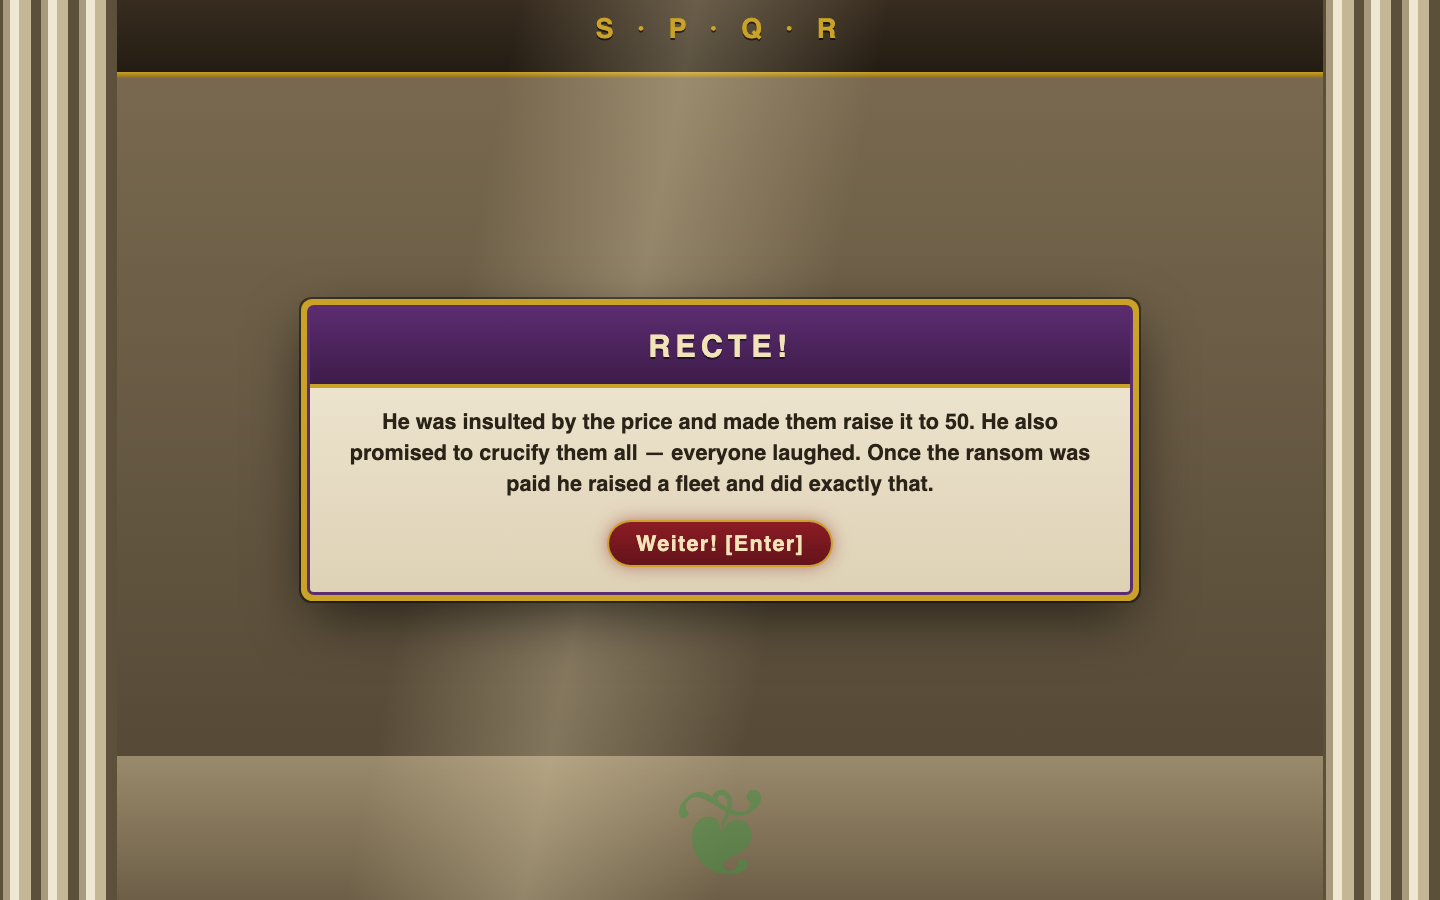
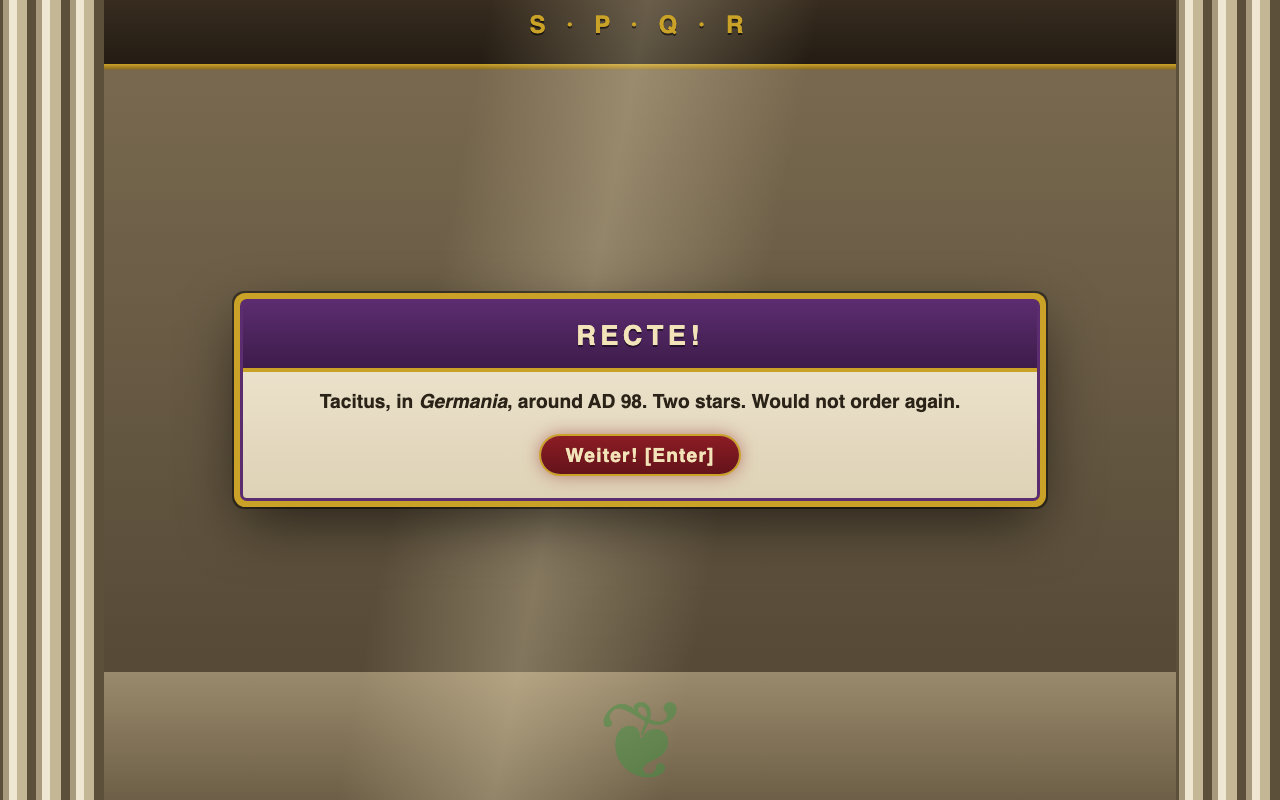
Rebuild the Romerriget quiz: five Rome-vs-Wiesn questions, four choices each.
The old three (pirates, urine, vomitorium) were good Rome trivia but had
nothing to do with beer. The new five all put Rome up against the Wiesn:
cerevisia, Tacitus' beer review, Maß vs. sextarius, Teutoburg, Castra Regina.

Four choices per question, so quizChoiceFromKey grows a fourth key (4 / D —
same dual-role pattern as A). runQuiz was already generic over question
count; only the comments that said "3-question" are updated. PR screenshots
in assets/ refreshed to show the new set.

Changed region(s): [[0.1562, 0.3125, 0.8438, 0.7188], [0.9375, 0.0, 0.9688, 1.0]]

diff --git a/js/tents/kaefer/kaefer.js b/js/tents/kaefer/kaefer.js
@@ -6,9 +6,11 @@
 //   kaefer.js    this — the host, his move, the questions
 //   kaefer.css   the Senate set (show: 'senate')
 //
-// The questions are deliberately NOT the pub-quiz three (Rubicon, veni vidi
-// vici, the Ides of March). Everybody knows those, so nothing lands. These three
-// are all true and all catch people out.
+// The questions are deliberately NOT the pub-quiz ones (Rubicon, veni vidi
+// vici, the Ides of March). Everybody knows those, so nothing lands. These five
+// all put Rome up against the Wiesn — beer, Maß sizes, Germania — true, on
+// theme, and they catch people out. Four choices each, picked with 1–4 / A–D
+// (quizChoiceFromKey in js/game.js grew the fourth key for this quiz).
 //
 // Registering this key is what makes tent 8 OPEN (see js/challenges.js).
 
@@ -95,25 +97,39 @@ CHALLENGES.kaefer = {
       },
       questions: [
         {
-          q: 'Pirates kidnapped a young Caesar and demanded 20 talents. What did he do?',
-          choices: ['Told them to demand 50 — he was worth more', 'Paid up and went quietly home', 'Escaped overboard in the night'],
-          answer: 0,
-          right: 'He was insulted by the price and made them raise it to 50. He also promised to crucify them all — everyone laughed. Once the ransom was paid he raised a fleet and did exactly that.',
-          wrong: 'He made them raise it to 50, being insulted by the price, and promised to crucify the lot. They took it as a joke. It was not a joke.',
+          q: 'Romans drank wine and held that beer was what peasants and barbarians poured down. What did they call the barbarian drink in Latin?',
+          choices: ['Posca', 'Cerevisia', 'Mulsum', 'Garum'],
+          answer: 1,
+          right: '<i>Cerevisia</i> — the root of the Spanish "cerveza". Garum was fermented fish sauce, and that would NOT go down well in a Hofbräu tent.',
+          wrong: '<i>Cerevisia</i> — the root of the Spanish "cerveza". Posca was watered vinegar, mulsum honeyed wine, and garum fish sauce — none of them belongs in a Maß.',
         },
         {
-          q: 'What did Romans rinse their mouths with to whiten their teeth?',
-          choices: ['Urine', 'Crushed pearls in vinegar', 'Sea salt and charcoal'],
+          q: 'Which Roman historian delivered history\'s first sour beer review, describing the Germans\' drink as "a liquid of barley or wheat, fermented into a certain resemblance to wine"?',
+          choices: ['Tacitus', 'Julius Caesar', 'Pliny the Younger', 'Suetonius'],
           answer: 0,
-          right: 'Urine — the ammonia genuinely whitens. Catullus mocks a man for grinning with it, and Vespasian later taxed the urine trade: <i>pecunia non olet</i>, money does not smell.',
-          wrong: 'Urine. The ammonia works, Catullus mocked a man for it, and Vespasian taxed the trade — <i>pecunia non olet</i>. Enjoy your Maß.',
+          right: 'Tacitus, in <i>Germania</i>, around AD 98. Two stars. Would not order again.',
+          wrong: 'Tacitus, in <i>Germania</i>, around AD 98 — two stars, would not order again. And no, not Caesar; the man is standing right in front of you.',
         },
         {
-          q: 'A Roman <i>vomitorium</i> was…?',
-          choices: ['The exit passage of an arena', 'A room for emptying your stomach mid-feast', 'The wine cellar under a villa'],
+          q: 'A Maß holds exactly one litre. Rome\'s standard cup, the <i>sextarius</i>, held 0.55 litres. What does that mean for the legionary in the beer tent?',
+          choices: ['He is done after half a Maß', 'He needs almost two to keep up', 'He needs four', 'He needs eight'],
+          answer: 1,
+          right: 'Almost two. Rome conquered three continents but never coped with a Bavarian serving size.',
+          wrong: 'Almost two sextarii to one Maß. Rome conquered three continents but never coped with a Bavarian serving size.',
+        },
+        {
+          q: 'Rome\'s worst defeat against the Germanic tribes was the Teutoburg Forest, AD 9, where three whole legions vanished. Who was behind it?',
+          choices: ['Vercingetorix', 'Attila', 'Arminius', 'Alaric'],
+          answer: 2,
+          right: 'Arminius — Cherusci chieftain and former Roman officer. Rome trained him itself. That is the kind of thing you call a bad onboarding.',
+          wrong: 'Arminius — Cherusci chieftain and former Roman officer. Rome trained him itself, which is the kind of thing you call a bad onboarding.',
+        },
+        {
+          q: 'Regensburg in Bavaria keeps some of the world\'s oldest taverns. What was the town called when Rome founded it as a legion camp in AD 179?',
+          choices: ['Castra Regina', 'Vindobona', 'Aquincum', 'Augusta Treverorum'],
           answer: 0,
-          right: 'An exit passage — it <i>spews</i> the crowd out of the arena after the games. The room-for-throwing-up is a Victorian invention.',
-          wrong: 'An exit passage that spews the crowd out of the arena. Nobody ever built a room for the other thing — that one is a Victorian myth.',
+          right: '<i>Castra Regina</i> — the fort on the river Regen. The legion marched off; the taverns stayed open.',
+          wrong: '<i>Castra Regina</i> — the fort on the river Regen. Vindobona became Vienna and Aquincum Budapest: good parties, wrong tent.',
         },
       ],
     }, done);

diff --git a/js/game.js b/js/game.js
@@ -205,12 +205,15 @@ function checkWin() {
   return true;
 }
 
-// 1/2/3 (and A/B/C) pick a quiz answer. Only consulted while a modal is open,
+// 1/2/3/4 (and A/B/C/D) pick a quiz answer. Only consulted while a modal is open,
 // so Digit3 never teleports during a quiz — debug teleports stay walk-only.
+// A/D also steer the player, but only in walk mode, so the two never collide
+// (pickQuizChoice ignores a key past the question's own choice count).
 function quizChoiceFromKey(code) {
   if (code === 'Digit1' || code === 'Numpad1' || code === 'KeyA') return 0;
   if (code === 'Digit2' || code === 'Numpad2' || code === 'KeyB') return 1;
   if (code === 'Digit3' || code === 'Numpad3' || code === 'KeyC') return 2;
+  if (code === 'Digit4' || code === 'Numpad4' || code === 'KeyD') return 3;
   return -1;
 }
 

diff --git a/js/challenges.js b/js/challenges.js
@@ -79,8 +79,9 @@ function quizLights(i, total) {
   return html + '</div>';
 }
 
-// Shared 3-question flow. Always finishes with done(true) — the quiz is a
-// show for the TV, not a gate. Badge + fanfare still come from startChallenge.
+// Shared multiple-choice quiz flow. Takes any number of questions (Hofbräu and
+// Weinzelt run three, Käfer five) and always finishes with done(true) — the
+// quiz is a show for the TV, not a gate. Badge + fanfare come from startChallenge.
 //
 // spec fields:
 //   questions   — [{ q, choices, answer, right, wrong }]

diff --git a/js/tents/README.md b/js/tents/README.md
@@ -145,8 +145,9 @@ onto the quiz-show stage. No engine code was needed for that.
 
 ## The shared quiz
 
-`runQuiz` in `js/challenges.js` — a 3-question multiple-choice flow, used by the
-three quiz tents (Hofbräu, Käfer, Weinzelt):
+`runQuiz` in `js/challenges.js` — a multiple-choice flow, used by the three quiz
+tents (Hofbräu, Käfer, Weinzelt). Any number of questions works; three is the
+house style, Käfer runs five:
 
 ```js
 run: function (tent, done) {
@@ -157,7 +158,7 @@ run: function (tent, done) {
     questions: [
       { q: 'Question?', choices: ['a', 'b', 'c'], answer: 0,
         right: 'shown when correct', wrong: 'shown when wrong' },
-      // ... three is the house style
+      // ... up to four choices — the keyboard maps 1–4 / A–D
     ],
     // optional dressing, see below
     show: 'worldwide', showTitle: '★ MR. WORLDWIDE QUIZ ★',
@@ -166,7 +167,7 @@ run: function (tent, done) {
 },
 ```
 
-Answers are picked with `1` / `2` / `3` or by clicking. Each answer plays a
+Answers are picked with `1`–`4` (or `A`–`D`) or by clicking. Each answer plays a
 sting (`UI.playSting`). The quiz always ends in `done(true)`.
 
 You do **not** have to use `runQuiz`. `run` can do anything: `UI.showModal`, a
